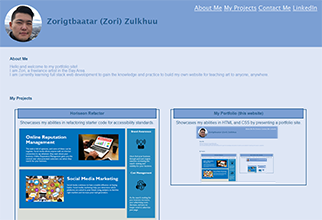
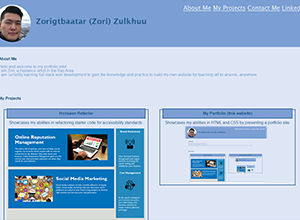
Update ReadMe

diff --git a/assets/css/style.css b/assets/css/style.css
@@ -2,7 +2,6 @@
 * {
     --body-color: #DEE6F5;
     --nav-color: #7B9FD3;
-    --h1-color: #255C8E;
     --links-color: #DEE6F5;
     --heading-color: #255C8E;
     --text-color: #7B9FD3;
@@ -38,7 +37,7 @@ nav {
 /* nav heading attributes */
 h1 {
     padding: 50px 20px 0 20px;
-    color: var(--h1-color);
+    color: var(--heading-color);
     font-size: 200%;
     flex: 1;
 }
@@ -81,24 +80,23 @@ h2 {
     display: flex;
     justify-content: center;
     padding: 10px;
-    border: 2px solid var(--h1-color);
+    border: 2px solid var(--heading-color);
     position: relative;
     margin-top: -15px;
     background-color: var(--nav-color);
-
 }
 
 /* projects div attributes */
 .projects div {
     display: flex;
     flex-direction: column;
-    border: 2px solid var(--h1-color);
+    border: 2px solid var(--heading-color);
     padding: 10px;
 }
 
-/* main project attributes */
-#main-project {
-    display: inline-block;
+/* projects img attributes */
+.projects img {
+    border: 2px solid var(--heading-color)
 }
 
 /* main project image attributes*/

diff --git a/index.html b/index.html
@@ -56,7 +56,7 @@
             <section class="projects">
                 <div id="other-project">
                     <h3>My Portfolio (this website)</h3>
-                    <p class="project-descr">Showcases my abilities in HTML and CSS by presenting a portfolio site.</p>
+                    <p class="project-descr">Showcases my abilities in HTML and CSS styling by presenting a portfolio site.</p>
                     <a href="https://zzzorigtbaatar.github.io/My-Portfolio/">
                         <img src="./assets/images/project-Portfolio.png" />
                     </a>

diff --git a/README.md b/README.md
@@ -2,17 +2,25 @@
 
 ## Description 
 
-Welcome to my portfolio website!
+Welcome to my first ever portfolio website!
 
-This project aims to showcase my ability in CSS styling with flexbox displays.
+This project aims to showcase my ability in custom CSS styling by presenting my past projects in an adaptive card format:
 
 ![](./assets/images/screenshot-my-portfolio.png)
+
+I achieved this by learning and implementing flexbox displays:
+
+![](./assets/images/screenshot-using-flexbox.png)
+
+Feel free to check out the [deployed website](https://zzzorigtbaatar.github.io/My-Portfolio/) as well as the [repository](https://github.com/zzzorigtbaatar/My-Portfolio).
+
+In order to do this project, I used HTML, CSS, git, and github.
 
 ## Credits
 
 * Jerome Chenette, UC Berkeley Extension Coding BootCamp
 
-* https://www.w3schools.com/
+* https://css-tricks.com/snippets/css/a-guide-to-flexbox/
 
 ## License
 
